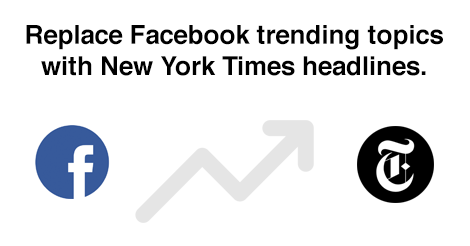
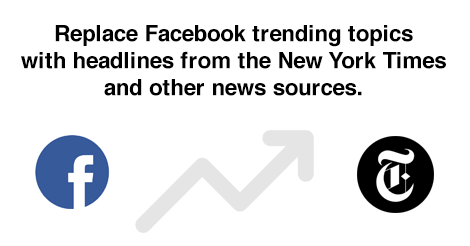
Update FB image

diff --git a/index.html b/index.html
@@ -8,7 +8,7 @@
          <!-- For Facebook sharing -->          
         <meta property="og:title" content="Fluffblocker — Replace Facebook trending topics with news headlines" />
         <meta property="og:type" content="article" />
-        <meta property="og:image" content="http://www.fluffblocker.com/images/fb.png?v=1" />
+        <meta property="og:image" content="http://www.fluffblocker.com/images/fb.png?v=2" />
         <meta property="og:url" content="http://www.fluffblocker.com" />
         <meta property="og:description" content="Fluffblocker is a free app that puts news headlines in your feed instead of Facebook trending topics. You can load stories from the BBC, the Guardian, the New York Times, NPR, the Washington Post, or a custom RSS feed." />
 
